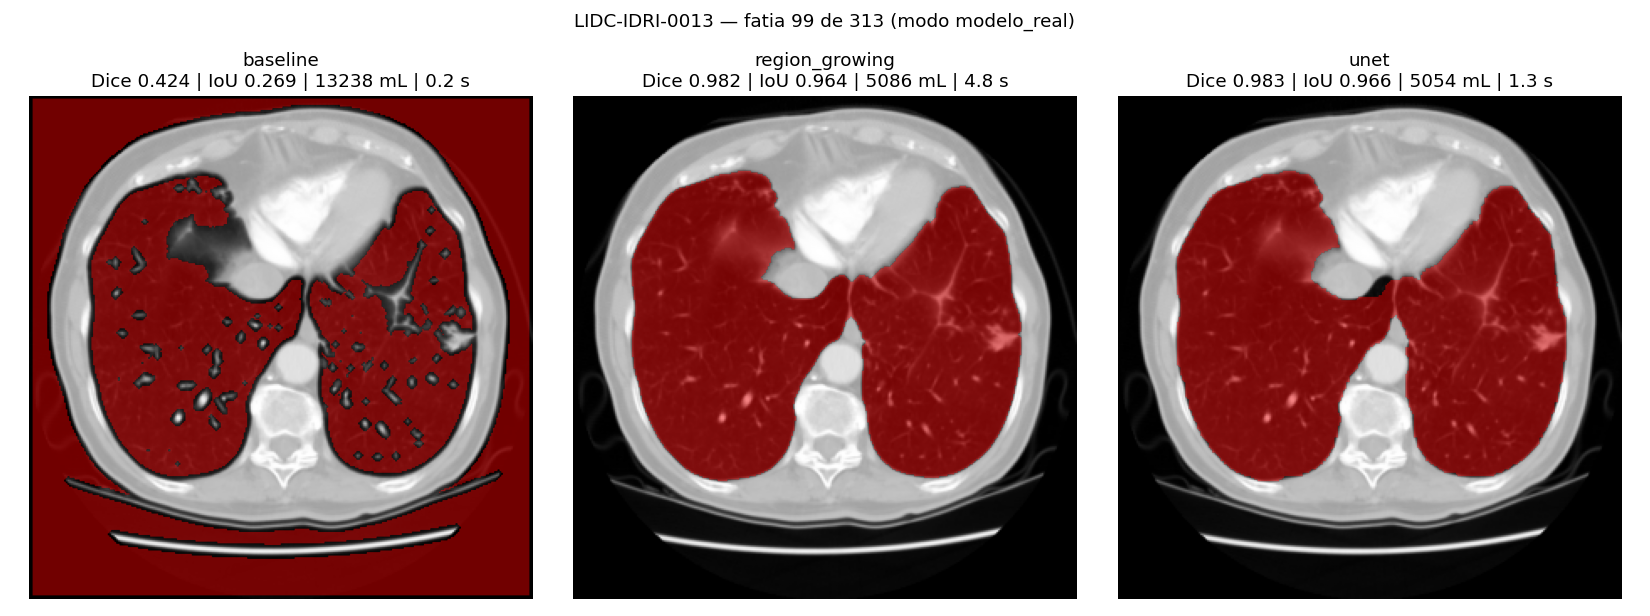
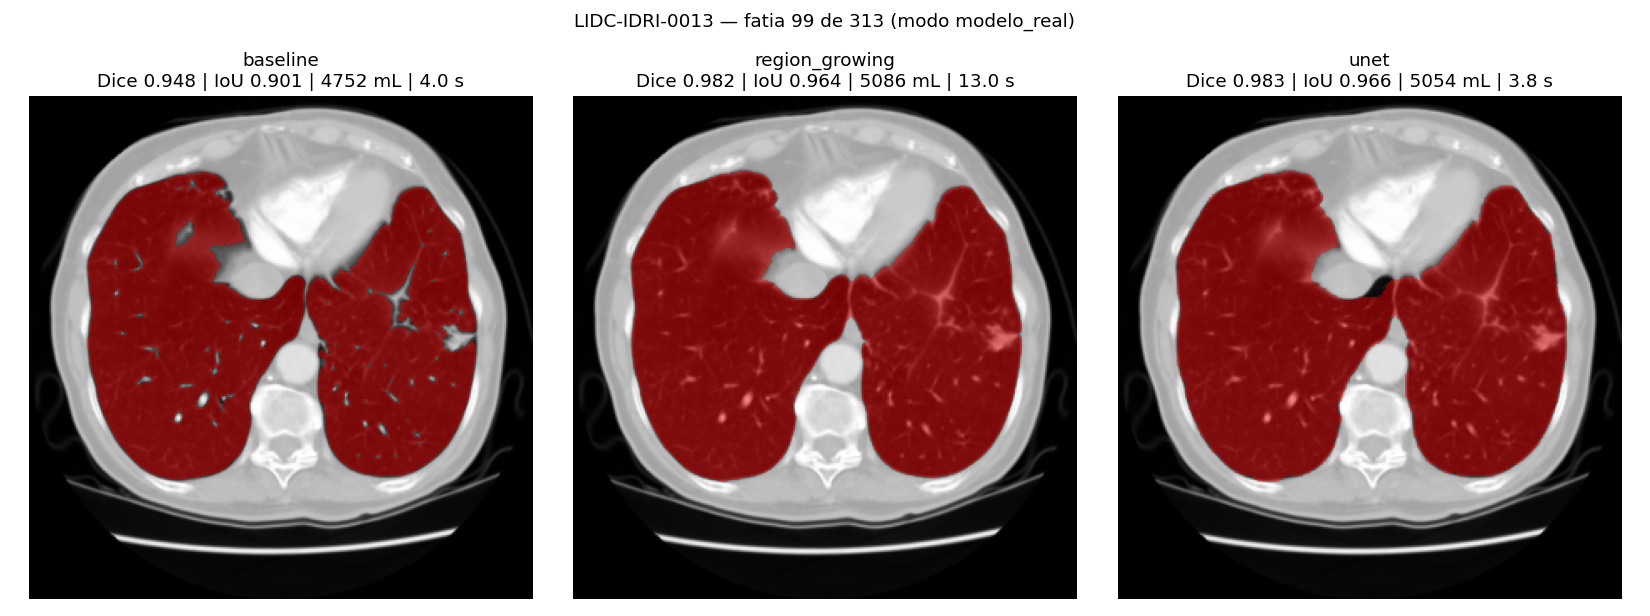
Baseline: só o ar dentro do corpo e abertura no lugar da erosão
O limiar de -600 HU também pegava o ar em volta do paciente (Dice 0,22 a
0,42, volume de 13 a 25 L nos exames de teste). Agora:

- mascara_corpo() (a mesma do region growing) descarta o ar de fora;
- abertura morfológica no lugar da erosão, que cortava ~2 voxels da
  borda inteira do pulmão (revocação ~0,72).

Dice nos 3 exames de teste: 0,948 / 0,928 / 0,906 (antes 0,424 / 0,285 /
0,220). A versão antiga continua disponível com
baseline(v, confinar=False, morfologia="erosao"). Novo teste garante que
o ar fora do corpo não volta; figura e README atualizados.

diff --git a/api/segmentation.py b/api/segmentation.py
@@ -37,21 +37,34 @@ def carregar_dicom(pasta):
 
 
 
-def baseline(volume, limiar=-600, raio=2):
+def baseline(volume, limiar=-600, raio=2, confinar=True, morfologia="abertura"):
     """
-    Threshold de -600 HU + erosão morfológica.
+    Threshold de -600 HU, só dentro do corpo, + abertura morfológica.
+
+    confinar=True: descarta o ar fora do paciente (que também fica abaixo de
+    -600 HU) usando mascara_corpo(), a mesma do region growing. Sem isso o
+    "pulmão" incluía todo o fundo da imagem (Dice 0,22-0,42, 13 a 25 L).
+
+    morfologia="abertura": erosão seguida de dilatação; tira ruído sem
+    encolher o pulmão. "erosao" (só erosão) era a versão antiga e corta
+    ~2 voxels da borda inteira (revocação de ~0,90 para ~0,72).
+
+    baseline(v, confinar=False, morfologia="erosao") reproduz o original.
     """
 
     mascara = volume < limiar
 
+    if confinar:
+        mascara &= mascara_corpo(volume)
+
     estrutura = ndi.generate_binary_structure(3, 1)
 
-    if raio:
-        mascara = ndi.binary_erosion(
-            mascara,
-            estrutura,
-            iterations=raio
-        )
+    if raio and morfologia == "abertura":
+        mascara = ndi.binary_opening(mascara, estrutura, iterations=raio)
+    elif raio and morfologia == "erosao":
+        mascara = ndi.binary_erosion(mascara, estrutura, iterations=raio)
+    elif raio:
+        raise ValueError(f"morfologia desconhecida: {morfologia}")
 
     return mascara
 

diff --git a/api/tests/test_modo_real.py b/api/tests/test_modo_real.py
@@ -112,9 +112,21 @@ def test_segmentacao_real(cliente, metodo):
     m = corpo["metricas"]
     assert isinstance(m["volume_pulmonar_ml"], float)
     assert isinstance(m["tempo_ms"], int)
-    if metodo == "region_growing":
-        # caso facil: o crescimento de regiao tem de achar os dois pulmoes
+    if metodo in ("region_growing", "baseline"):
+        # caso facil: tem de achar os dois pulmoes; no baseline, sem o ar
+        # fora do corpo (antes o fundo inteiro entrava e o Dice caia)
         assert m["dice"] > 0.8
+
+
+def test_baseline_ignora_ar_fora_do_corpo(cliente):
+    from api.segmentation import baseline
+
+    servico = app.dependency_overrides[obter_servico]()
+    volume, referencia = servico.volumes["sintetico"]
+    novo, antigo = baseline(volume), baseline(volume, confinar=False, morfologia="erosao")
+    assert not novo[:, :4, :].any() and not novo[:, :, :4].any()  # bordas = ar de fora
+    assert antigo[:, :4, :].any()                                  # versao antiga pegava
+    assert novo.sum() < 2 * referencia.sum()
 
 
 def test_cache_calcula_uma_vez(cliente, monkeypatch):

diff --git a/api/README.md b/api/README.md
@@ -78,7 +78,7 @@ a API dá **exatamente** o Dice e o número de voxels de
   aquecimento; depois lê os exames de `API_EXAMES` **uma vez só** (~2 a 6 s
   cada, a partir do HD). Cada exame ocupa ~150 MB de RAM, por isso a lista é curta.
 - Cada par (exame, método) é calculado na primeira chamada e fica em **cache**.
-  Com GPU: U-Net ~1,5 a 3 s por exame, region growing ~5 a 9 s, baseline < 0,5 s.
+  Com GPU: U-Net ~1,5 a 4 s por exame, region growing ~5 a 13 s, baseline ~3 a 4 s.
   Depois disso, ~20 ms.
 - `volume_pulmonar_ml` = voxels marcados × 1 mm³ (o volume está a 1 mm).
 - Exame da lista que não está no HD aparece com `baixado: false` e responde 409.
@@ -88,21 +88,32 @@ a API dá **exatamente** o Dice e o número de voxels de
 
 | exame | método | Dice | IoU | volume (mL) |
 |---|---|---|---|---|
-| LIDC-IDRI-0013 | baseline | 0,424 | 0,269 | 13 238 |
+| LIDC-IDRI-0013 | baseline | 0,948 | 0,901 | 4 752 |
 | | region growing | 0,982 | 0,964 | 5 086 |
 | | U-Net | **0,983** | **0,966** | 5 054 |
-| LIDC-IDRI-0022 | baseline | 0,285 | 0,166 | 20 755 |
+| LIDC-IDRI-0022 | baseline | 0,928 | 0,866 | 4 991 |
 | | region growing | 0,980 | 0,962 | 5 472 |
 | | U-Net | **0,984** | **0,968** | 5 442 |
-| LIDC-IDRI-0024 | baseline | 0,220 | 0,123 | 24 999 |
+| LIDC-IDRI-0024 | baseline | 0,906 | 0,828 | 4 314 |
 | | region growing | 0,974 | 0,948 | 4 582 |
 | | U-Net | **0,980** | **0,961** | 4 544 |
 
-O baseline (limiar −600 HU + erosão, `api/segmentation.py`) marca também o
-**ar em volta do paciente**, por isso o Dice baixo e o volume de 13 a 25 L. É
-o comportamento do método, não da API; veja a figura em
-`notebooks/resultados/resultado_LIDC-IDRI-0013.png`
+Figura: `notebooks/resultados/resultado_LIDC-IDRI-0013.png`
 (gerada por `python notebooks/resultados/resultado.py <saida.png>`).
+
+**Baseline corrigido.** Hoje ele é: limiar −600 HU, só dentro do corpo
+(`mascara_corpo()`, a mesma do region growing) e abertura morfológica. A versão
+antiga (limiar + erosão) tinha dois problemas, medidos nesses 3 exames:
+
+| versão | Dice | volume (mL) | problema |
+|---|---|---|---|
+| limiar + erosão (antiga) | 0,22 a 0,42 | 13 238 a 24 999 | marcava o **ar em volta do paciente** como pulmão |
+| + só dentro do corpo | 0,80 a 0,86 | 3 432 a 3 933 | a erosão corta ~2 voxels da borda inteira (revocação ~0,72) |
+| + abertura no lugar da erosão (atual) | 0,91 a 0,95 | 4 314 a 4 991 | — |
+
+Ele continua abaixo dos outros dois porque os vasos (mais densos que −600 HU)
+ficam como buracos na máscara. A versão antiga continua disponível para
+comparação: `baseline(volume, confinar=False, morfologia="erosao")`.
 
 ## Como rodar os testes
 
